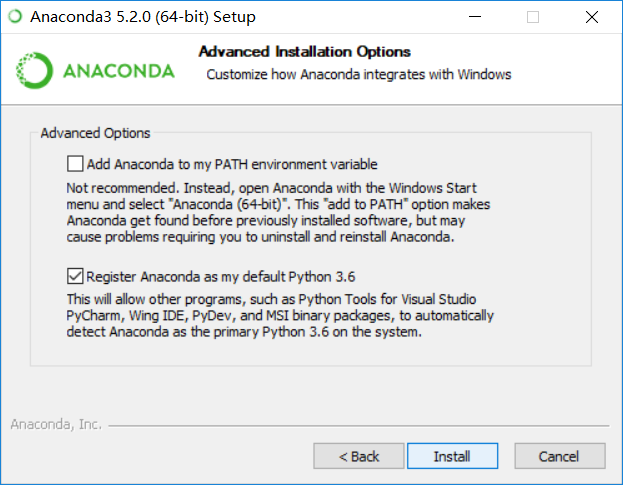
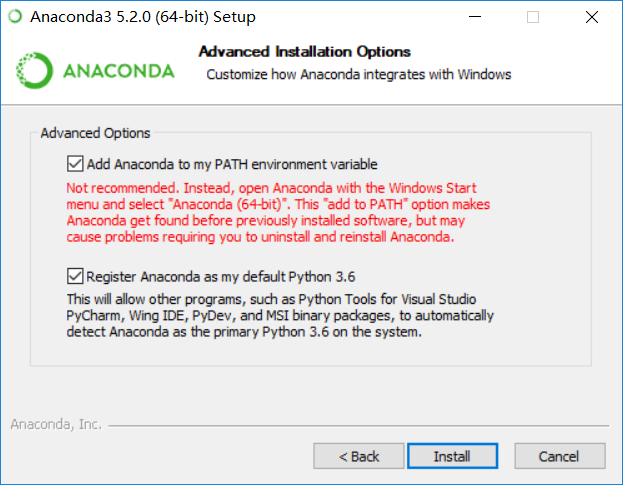
Site updated: 2018-10-22 12:45:11

diff --git a/2018/09/10/配置环境/index.html b/2018/09/10/配置环境/index.html
@@ -92,7 +92,7 @@
 <meta property="og:image" content="http://yoursite.com/2018/09/10/配置环境/QQ截图20180729102417.png">
 <meta property="og:image" content="http://yoursite.com/2018/09/10/配置环境/QQ截图20180729102436.png">
 <meta property="og:image" content="http://yoursite.com/2018/09/10/配置环境/QQ截图20180729102632.png">
-<meta property="og:updated_time" content="2018-09-15T13:28:55.148Z">
+<meta property="og:updated_time" content="2018-10-22T04:41:07.753Z">
 <meta name="twitter:card" content="summary">
 <meta name="twitter:title" content="配置环境">
 <meta name="twitter:description" content="Anaconda简介Anaconda指的是一个开源的python发行版本，其包含了conda、Python等180多个科学包及其依赖项。  下载Anaconda3安装包 Anaconda3（Windows） Anaconda3（macOS）  安装流程">
@@ -310,7 +310,7 @@
                   <span class="post-meta-item-text">字数统计&#58;</span>
                 
                 <span title="字数统计">
-                  471
+                  466
                 </span>
               
 
@@ -345,7 +345,7 @@
 <li>找到安装包的文件位置，双击打开安装程序，这里next就行<img src="/2018/09/10/配置环境/QQ截图20180729102326.png" alt=""></li>
 <li>选择给系统的那些用户使用，一般直接选“Just Me”就行，如果有多个用户且都要用到就选“All Users”（选择这个选项需要管理员权限）<img src="/2018/09/10/配置环境/QQ截图20180729102357.png" alt=""></li>
 <li>选择安装路径（图片中的是我的默认安装路径）<img src="/2018/09/10/配置环境/QQ截图20180729102417.png" alt=""></li>
-<li>在“Advanced Installation Options”中第一个选项是”添加Anaconda到我的环境变量“。安装程序不建议我们打钩这个选项，因为可能会影响其他程序的使用。第二个选项是默认安装python3.6。除非你想要使用多个版本的Python，不然就把这个选项√上。然后点击”Install”<img src="/2018/09/10/配置环境/QQ截图20180729102436.png" alt=""></li>
+<li>在“Advanced Installation Options”中第一个选项是”添加Anaconda到我的环境变量“。安装程序不建议我们打钩这个选项，但我们偏偏要打钩（皮）。第二个选项是默认安装python3.6。除非你想要使用多个版本的Python，不然就把这个选项√上。然后点击”Install”<img src="/2018/09/10/配置环境/QQ截图20180729102436.png" alt=""></li>
 <li>进入“Thanks for installing Anaconda!”界面则意味着安装成功，点击“Finish”完成安装。 </li>
 </ol>
 <h2 id="Visual-Studio-Code"><a href="#Visual-Studio-Code" class="headerlink" title="Visual Studio Code"></a>Visual Studio Code</h2><h3 id="简介-1"><a href="#简介-1" class="headerlink" title="简介"></a>简介</h3><blockquote>

diff --git a/index.html b/index.html
@@ -1255,7 +1255,7 @@
                   <span class="post-meta-item-text">字数统计&#58;</span>
                 
                 <span title="字数统计">
-                  471
+                  466
                 </span>
               
 

diff --git a/css/main.css b/css/main.css
@@ -1816,7 +1816,7 @@ pre .javascript .function {
   width: 4px;
   height: 4px;
   border-radius: 50%;
-  background: #ee2a0b;
+  background: #9649fe;
 }
 .links-of-blogroll {
   font-size: 13px;
